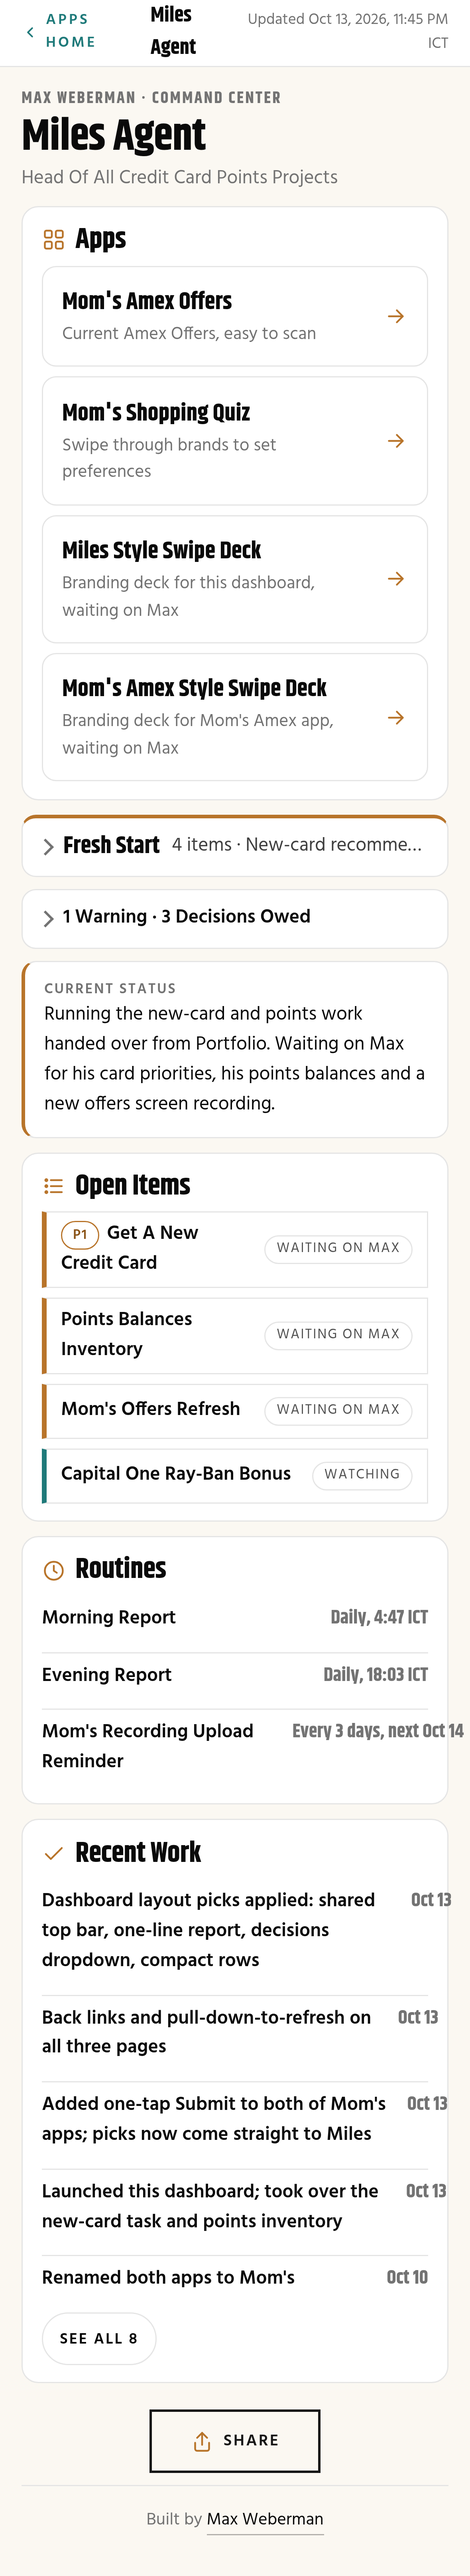
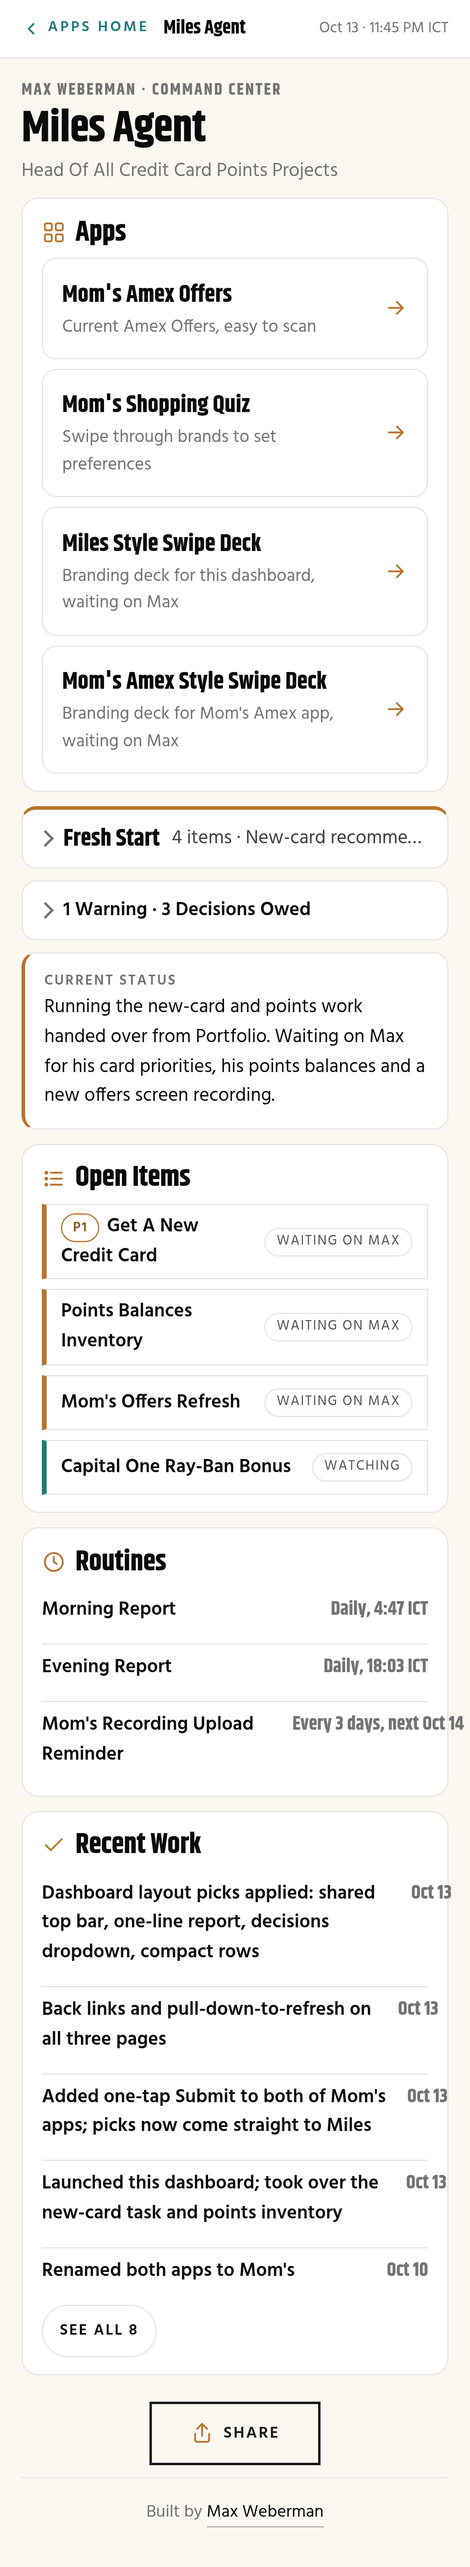
Layout round 1: compact phone top bar

diff --git a/index.html b/index.html
@@ -119,6 +119,7 @@ li.rrow .date{margin-left:auto;text-align:right;white-space:nowrap;color:var(--m
 .share{margin:22px 0 6px}footer{margin-top:10px}
 @media(min-width:1280px) and (max-width:1699px){.topbar .tb{max-width:1300px}}@media(min-width:1700px){.topbar .tb{max-width:1500px}}@media(min-width:1900px){.topbar .tb{padding:0 5vw}}@media(min-width:2400px){.topbar .tb{max-width:1900px}}@media(min-width:3200px){.topbar .tb{max-width:2600px}}
 @media(min-width:1280px){.grid{grid-template-columns:1fr 1fr}.grid .recent{grid-column:auto}}
+.topbar .homelink,.tbname,.tbupd{white-space:nowrap}.tbupd .short{display:none}@media(max-width:600px){.tbupd .full{display:none}.tbupd .short{display:inline}.tbname{font-size:1rem}}
 </style><script src="ptr.js" defer></script>
 </head><body>
 <svg width="0" height="0" style="position:absolute"><defs>
@@ -130,7 +131,7 @@ li.rrow .date{margin-left:auto;text-align:right;white-space:nowrap;color:var(--m
 <symbol id="i-arrow" viewBox="0 0 24 24"><path d="M5 12h14M13 6l6 6-6 6"/></symbol>
 <symbol id="i-share" viewBox="0 0 24 24"><path d="M12 15V3M7 8l5-5 5 5M5 13v6a2 2 0 0 0 2 2h10a2 2 0 0 0 2-2v-6"/></symbol>
 </defs></svg>
-<header class="topbar"><div class="tb"><a class="homelink" href="https://webermanapps.github.io/a-2sipntzsp385oxy3/"><svg width="16" height="16" viewBox="0 0 24 24" fill="none" stroke="currentColor" stroke-width="2.2" stroke-linecap="round" stroke-linejoin="round" aria-hidden="true"><path d="M15 6l-6 6 6 6"/></svg>Apps Home</a><span class="tbname">Miles Agent</span><span class="tbupd">Updated <span id="tupd"></span></span></div></header>
+<header class="topbar"><div class="tb"><a class="homelink" href="https://webermanapps.github.io/a-2sipntzsp385oxy3/"><svg width="16" height="16" viewBox="0 0 24 24" fill="none" stroke="currentColor" stroke-width="2.2" stroke-linecap="round" stroke-linejoin="round" aria-hidden="true"><path d="M15 6l-6 6 6 6"/></svg>Apps Home</a><span class="tbname">Miles Agent</span><span class="tbupd"><span class="full">Updated <span id="tupd"></span></span><span class="short" id="tupds"></span></span></div></header>
 <div class="wrap">
 <div class="wm">Max Weberman · Command Center</div>
 <h1 id="agent"></h1><div class="role" id="role"></div>
@@ -149,7 +150,7 @@ li.rrow .date{margin-left:auto;text-align:right;white-space:nowrap;color:var(--m
 <script src="data.js"></script>
 <script>
 const D=window.DASH,$=id=>document.getElementById(id),e=s=>String(s).replace(/[&<>"]/g,c=>({'&':'&amp;','<':'&lt;','>':'&gt;','"':'&quot;'}[c]));
-$('agent').textContent=D.agent;$('role').textContent=D.role;$('tupd').textContent=D.updated;$('status').textContent=D.status;document.title=D.agent+' · Command Center';
+$('agent').textContent=D.agent;$('role').textContent=D.role;$('tupd').textContent=D.updated;$('tupds').textContent=String(D.updated).replace(/^\w+ (\d+), \d{4}, /,'$1 · ').replace(/^(\d+) · /,(m,d)=>String(D.updated).split(' ')[0]+' '+d+' · ');$('status').textContent=D.status;document.title=D.agent+' · Command Center';
 const R=D.report;if(R&&R.lines&&R.lines.length){const G=R.lines.map(g=>typeof g==='string'?{category:'',lines:[g]}:g),n=G.reduce((a,g)=>a+(g.lines||[]).length,0);
  $('utitle').textContent=R.title||'Update';$('uts').textContent=R.timestamp||'';$('rsum').textContent=n+(n===1?' item':' items')+(G[0].lines&&G[0].lines[0]?' · '+G[0].lines[0]:'');
  $('ulines').innerHTML=G.map((g,gi)=>{const rows=(g.lines||[]).map(l=>`<li>${e(l)}</li>`).join('');return g.category?`<details class="ufold"${gi===0?' open':''}><summary>${e(g.category)}<span class="ucount">${(g.lines||[]).length}</span></summary><ol class="unum">${rows}</ol></details>`:`<ol class="unum">${rows}</ol>`}).join('');$('rep').hidden=false}
